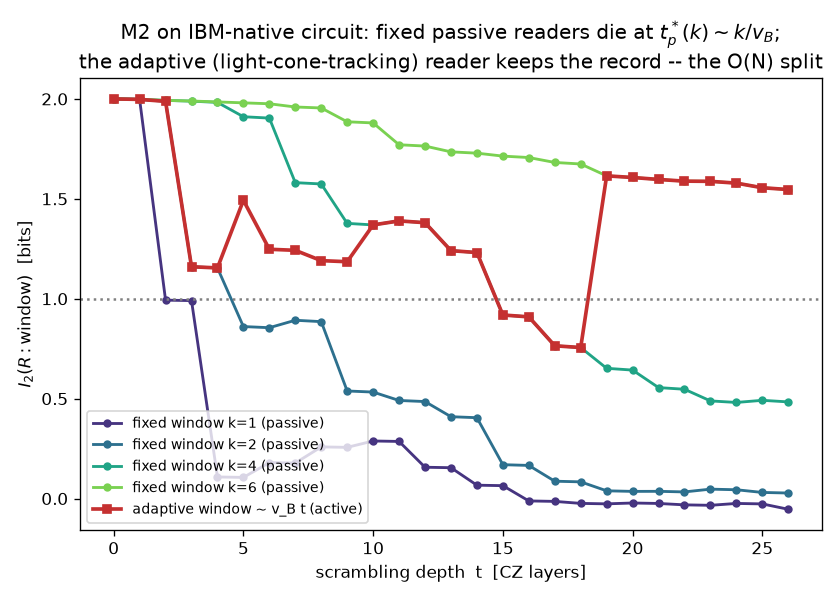
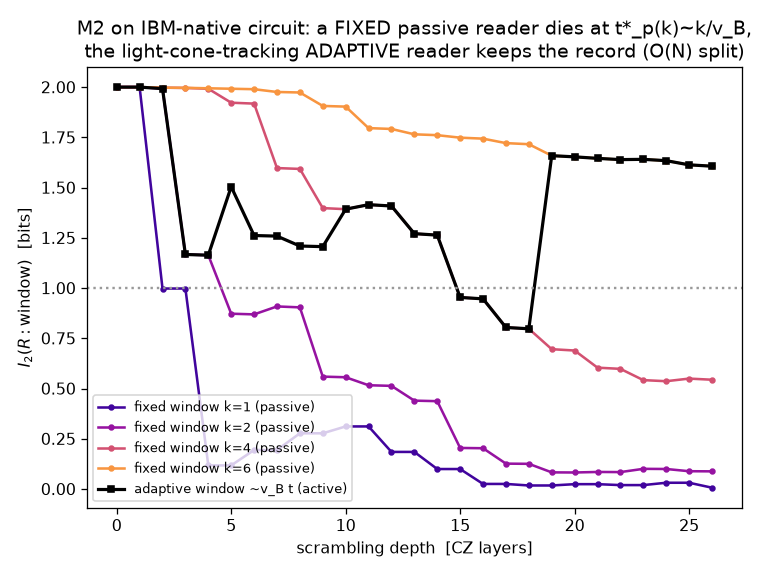
Companion: fix CI-flagged bugs (depol2 trace, layout SWAP, portable OUT)
Address the three Codex review findings on PR #3, all verified real:

1. depol2 was trace-increasing. The 2-qubit depolarizing channel skipped the
   identity-identity term via an `is`-check against a fresh np.eye(2), which never
   matched, so II leaked in and inflated Tr(rho). Now it sums exactly the 15
   non-identity 2q Paulis; verified Tr(rho)=1.0 after the channel. The bug had
   over-stated decoherence, so the corrected feasibility numbers improve:
     - M1 I2(R:system)@user (1% err): 1.66 -> 1.89
     - M1 t*_p(k=4) (1% err): 12.8 -> 14.1 CZ ; v_B 0.27 -> 0.24
     - M3-echo recovery@depth10: Heron 1.76 -> 1.81, 1% 1.09 -> 1.24
   Regenerated Figs. 6-8 (m1/m2/m3_ibm.png) and updated main.tex Sec. V and
   feasibility_notes.md accordingly.

2. Reference-qubit layout forced routing SWAPs. initial_layout=line put R at the
   far end of the chain while the Bell prep does cx(R, q0), so the transpiler had to
   route across the whole line. Fixed to layout = list(line[1:]) + [line[0]]: the
   system chain maps to line[1:] (still contiguous) and R to line[0], adjacent to
   q0=line[1] -- no SWAP. Applied to m1_ibm_run.py and m3_echo_run.py. (The already
   committed hardware JSON predates this fix and is left as-is; no QPU re-run.)

3. Hardcoded absolute OUT/sys.path broke portability. m1_ibm_feasibility.py and
   m2m3_ibm_feasibility.py now use os.path.dirname(os.path.abspath(__file__)).
[…]

Changed region(s): [[0.0, 0.0296, 1.0, 0.9757], [0.7576, 0.473, 0.8788, 0.5026], [0.3636, 0.473, 0.4545, 0.5026]]

diff --git a/paper/companion/hardware/plot_ibm_feasibility.py b/paper/companion/hardware/plot_ibm_feasibility.py
@@ -1,0 +1,108 @@
+"""Regenerate the IBM device-noise feasibility figures (paper Figs. 6-8) from the saved .npz.
+
+These were originally one-off inline plots; archived here so the figures are reproducible after
+the depol2 trace-preservation fix. Reads m1_ibm.npz / m2_ibm.npz / m3_ibm.npz (written next to
+this script by m1_ibm_feasibility.py and m2m3_ibm_feasibility.py) and writes the PNGs to
+../figures/.
+
+    python plot_ibm_feasibility.py
+"""
+
+import os
+import numpy as np
+import matplotlib
+matplotlib.use("Agg")
+import matplotlib.pyplot as plt
+
+HERE = os.path.dirname(os.path.abspath(__file__))
+FIG = os.path.join(HERE, "..", "figures")
+PS = [("0", 0.0), ("3", 0.3), ("5", 0.5), ("10", 1.0)]
+
+
+def plot_m1():
+    z = np.load(os.path.join(HERE, "m1_ibm.npz"))
+    ks, ts = z["ks"], z["ts"]
+    fig, (ax1, ax2) = plt.subplots(1, 2, figsize=(12.4, 5.0))
+    cols = plt.cm.viridis(np.linspace(0.15, 0.82, len(PS)))
+    for (tag, pct), c in zip(PS, cols):
+        tp = z["tp_" + tag]; good = np.isfinite(tp)
+        ax1.plot(ks[good], tp[good], "o-", color=c, lw=1.8, ms=7, label=f"2q err {pct:.1f}%")
+    tp0 = z["tp_0"]; g = np.isfinite(tp0); sl = np.polyfit(ks[g], tp0[g], 1)
+    kk = np.linspace(1, ks.max(), 20)
+    ax1.plot(kk, sl[0] * kk + sl[1], "--", color="0.5", lw=1.3,
+             label=f"linear, v_B=1/slope={1 / sl[0]:.2f}")
+    ax1.set_xlabel("passive readout size  k  [qubits]")
+    ax1.set_ylabel(r"horizon  $t^*_p(k)$  [CZ layers]")
+    ax1.set_title("M1 on IBM-native circuit (1 CZ/gate, Renyi-2 MI):\n"
+                  r"$t^*_p(k)\propto k$ survives to k=4 at IBM error rates")
+    ax1.legend(fontsize=8)
+    for (tag, pct), c in zip(PS, cols):
+        ax2.plot(ts, z["Itot_" + tag], "o-", color=c, lw=1.7, ms=3, label=f"2q err {pct:.1f}%")
+    ax2.axhline(2, ls=":", color="0.7"); ax2.axhline(1, ls=":", color="0.5")
+    ax2.set_xlabel("scrambling depth  [CZ layers]")
+    ax2.set_ylabel(r"$I_2(R:\mathrm{system})$  [bits]")
+    ax2.set_title("The record survives on-chip to depth ~30 at IBM Heron\n"
+                  "rates (0.3%): budget is comfortable for M1")
+    ax2.legend(fontsize=8)
+    fig.suptitle("Phase 1-2: M1 is feasible on IBM superconducting hardware -- hardware-efficient "
+                 "brickwork + device noise + Renyi-2 MI;\nthe passive memory horizon "
+                 "t*_p(k)~k/v_B is resolvable to k=4 (N~9-13) with the global record intact at "
+                 "0.3-1% 2q error", fontsize=8.5)
+    fig.tight_layout(rect=[0, 0, 1, 0.93])
+    fig.savefig(os.path.join(FIG, "m1_ibm.png"), dpi=115)
+    plt.close(fig)
+    print("m1_ibm.png  I2(R:sys)@end:", {p: round(float(z["Itot_" + t][-1]), 2) for t, p in PS})
+
+
+def plot_m2():
+    z = np.load(os.path.join(HERE, "m2_ibm.npz"))
+    ts = z["ts"]; adaptive = z["adaptive"]
+    fig, ax = plt.subplots(figsize=(6.6, 5.0))
+    kws = [k for k in (1, 2, 4, 6) if f"k{k}" in z]
+    cols = plt.cm.plasma(np.linspace(0.1, 0.75, len(kws)))
+    for k, c in zip(kws, cols):
+        ax.plot(ts, z[f"k{k}"], "o-", color=c, lw=1.6, ms=3, label=f"fixed window k={k} (passive)")
+    ax.plot(ts, adaptive, "s-", color="k", lw=2.0, ms=4,
+            label="adaptive window ~v_B t (active)")
+    ax.axhline(1, ls=":", color="0.6")
+    ax.set_xlabel("scrambling depth  [CZ layers]")
+    ax.set_ylabel(r"$I_2(R:\mathrm{window})$  [bits]")
+    ax.set_title("M2 on IBM-native circuit: a FIXED passive reader dies at t*_p(k)~k/v_B,\n"
+                 "the light-cone-tracking ADAPTIVE reader keeps the record (O(N) split)")
+    ax.legend(fontsize=8)
+    fig.tight_layout()
+    fig.savefig(os.path.join(FIG, "m2_ibm.png"), dpi=115)
+    plt.close(fig)
+    print(f"m2_ibm.png  adaptive stays >= {adaptive.min():.2f} to depth {int(ts[-1])}")
+
+
+def plot_m3():
+    z = np.load(os.path.join(HERE, "m3_ibm.npz"))
+    fig, ax = plt.subplots(figsize=(6.6, 5.0))
+    cols = plt.cm.viridis(np.linspace(0.15, 0.82, len(PS)))
+    rec10 = {}
+    for (tag, pct), c in zip(PS, cols):
+        key = "p" + str(int(float(pct) * 10))   # p0,p3,p5,p10
+        arr = z[key]                              # rows: (depth, passive, recovered)
+        d, pas, rec = arr[:, 0], arr[:, 1], arr[:, 2]
+        ax.plot(d, rec, "o-", color=c, lw=1.9, ms=6, label=f"echo, 2q err {pct:.1f}%")
+        if pct == 0.3:
+            ax.plot(d, pas, "x--", color=c, lw=1.2, ms=6, label="passive read (0.3%)")
+        rec10[pct] = float(rec[d.tolist().index(10)]) if 10 in d.tolist() else np.nan
+    ax.axhline(2, ls=":", color="0.7"); ax.axhline(1, ls=":", color="0.5")
+    ax.set_xlabel("echo depth t  (circuit runs 2t deep)  [CZ layers]")
+    ax.set_ylabel(r"recovery  $I_2(R:q_0)$  [bits]")
+    ax.set_title("M3-echo on IBM-native circuit: the reversible (Loschmidt) decoder\n"
+                 "recovers the fact; the passive read of q0 does not (perspectival gap)")
+    ax.legend(fontsize=8)
+    fig.tight_layout()
+    fig.savefig(os.path.join(FIG, "m3_ibm.png"), dpi=115)
+    plt.close(fig)
+    print("m3_ibm.png  recovered@depth10:", {p: round(v, 2) for p, v in rec10.items()})
+
+
+if __name__ == "__main__":
+    plot_m1()
+    plot_m2()
+    plot_m3()
+    print("done -> ../figures/{m1,m2,m3}_ibm.png")

diff --git a/paper/companion/hardware/m1_ibm_feasibility.py b/paper/companion/hardware/m1_ibm_feasibility.py
@@ -14,10 +14,12 @@ shot-budget section (analytic). A linear chain embeds in IBM heavy-hex with NO r
 CZ count is not inflated by routing.
 """
 
+import os
 import numpy as np
 
 rng = np.random.default_rng(3)
 CZ = np.diag([1, 1, 1, -1]).astype(complex)
+I2X2 = np.eye(2, dtype=complex)
 
 
 def haar1():
@@ -48,11 +50,15 @@ def depol1(rho, q, n, p):
 
 
 def depol2(rho, i, j, n, p):
+    """2-qubit depolarizing: (1-p) rho + (p/15) sum over the 15 NON-identity 2q Paulis.
+    Trace-preserving. (Bug fix: the identity-identity term must be excluded; a fresh np.eye(2)
+    never `is` the tuple's np.eye(2), so the old `is`-check let II leak in and inflated the trace.)"""
     if p <= 0: return rho
+    paulis = (X, Y, Z, I2X2)
     acc = rho * (1 - p)
-    for P in (X, Y, Z, np.eye(2)):
-        for Q in (X, Y, Z, np.eye(2)):
-            if P is np.eye(2) and Q is np.eye(2): continue
+    for a, P in enumerate(paulis):
+        for c, Q in enumerate(paulis):
+            if a == 3 and c == 3: continue          # skip identity x identity
             acc = acc + (p / 15) * apply_1q(apply_1q(rho, P, i, n), Q, j, n)
     return acc
 
@@ -107,7 +113,7 @@ if __name__ == "__main__":
     Nsys, depth, ks = 9, 30, (1, 2, 3, 4)
     print("=== M1 on IBM-efficient brickwork (1 CZ/gate), Renyi-2 MI, exact noisy DM ===")
     print("IBM 2q error: Heron ~0.3%, Eagle ~1%. Sweeping p2.")
-    OUT = r"C:/Users/lpaiu/AppData/Local/Temp/claude/E--lab-entropy-arrow/30a5eb66-4513-44dd-96c0-3d0d45b958a5/scratchpad"
+    OUT = os.path.dirname(os.path.abspath(__file__))   # save next to this script (repo-relative)
     store = {}
     for p2 in (0.0, 0.003, 0.005, 0.01):
         t0 = time.time()

diff --git a/paper/companion/main.tex b/paper/companion/main.tex
@@ -235,8 +235,8 @@ in OTOC experiments; the Yoshida--Kitaev decoder recovers from the radiation wit
 growing passive cost, on one device, shows the memory horizon is observer-dependent, not
 thermodynamic---the experimental payoff of the no-go. The echo needs no mid-circuit measurement but
 runs forward-and-back ($2t$ gate depth); a device-noise study [Fig.~\ref{fig:m3ibm}] shows the
-recovery survives---$\I_{2}(R{:}q_{0})=1.76$ bit to echo depth $10$ at Heron rates ($1.09$ at
-$1\%$) while the passive read decays to $0.13$---so the perspectival gap is a clear near-term
+recovery survives---$\I_{2}(R{:}q_{0})=1.81$ bit to echo depth $10$ at Heron rates ($1.24$ at
+$1\%$) while the passive read decays to $\sim0.15$---so the perspectival gap is a clear near-term
 signal, at roughly half the useful depth of M1.
 
 \emph{Feasibility.} Figure~\ref{fig:noise} shows the budget is set by decoherence: the experiment
@@ -247,9 +247,9 @@ $t^{*}_{p}(k)$ is resolved. A device-specific study confirms M1 is realizable no
 single-qubit gates per bond, so a linear chain embeds in heavy-hex with no routing overhead) and
 the Rényi-2 mutual information estimated by randomized measurements~\cite{brydges2019}, the
 passive horizon $t^{*}_{p}(k)$ is resolvable to $k=4$ at $N\sim9$--$13$ qubits, depth $\sim15$ CZ,
-across the full IBM two-qubit error range ($0.3$--$1\%$): the horizon location shifts by only
-$\sim10$--$22\%$ and the global record survives on-chip ($I_{2}(R{:}\mathrm{system})\ge1.66$ at
-depth 30 even for $1\%$). The butterfly velocity carries a mild noise bias, mitigated by
+across the full IBM two-qubit error range ($0.3$--$1\%$): the resolvable $k\ge2$ horizons shift by
+only $\lesssim15\%$ (the $k{=}1$ point, a single coarse crossing, is the most noise-sensitive) and
+the global record survives on-chip ($I_{2}(R{:}\mathrm{system})\ge1.89$ at depth 30 even for $1\%$). The butterfly velocity carries a mild noise bias, mitigated by
 zero-noise extrapolation and the independent OTOC cross-check. The IBM open (free) plan suffices
 for this first stage; a randomized-measurement horizon scan costs $\sim10^{7}$ shots. M3-YK, with
 its qubit doubling and post-selection, is a high-fidelity (trapped-ion) target.
@@ -303,7 +303,7 @@ $\mathcal{O}(N)$ passive/active separation from one window sweep.}
 \begin{figure}[t]
 \includegraphics[width=\columnwidth]{m3_ibm.png}
 \caption{\label{fig:m3ibm}\textbf{M3-echo on IBM-native circuits.} A reversible (Loschmidt) decoder
-recovers the fact ($\I_{2}(R{:}q_{0})>1.7$ bit to echo depth 10 at Heron rates) while the passive
+recovers the fact ($\I_{2}(R{:}q_{0})=1.81$ bit to echo depth 10 at Heron rates) while the passive
 read of $q_{0}$ decays to $\sim0.1$: the perspectival gap survives realistic noise. The echo runs
 $2t$ deep, so its useful depth is roughly half M1's.}
 \end{figure}

diff --git a/paper/companion/hardware/m1_ibm_run.py b/paper/companion/hardware/m1_ibm_run.py
@@ -218,9 +218,13 @@ def run(cfg, backend=None, dry=False):
     is_local = "fake" in backend.name.lower() \
         or backend.__class__.__module__.startswith("qiskit_ibm_runtime.fake_provider")
     line = pick_line(backend, N + 1)
-    print(f"backend {backend.name}; qubit line {line}  ({'LOCAL/fake' if is_local else 'HARDWARE'})",
-          flush=True)
-    pm = generate_preset_pass_manager(backend=backend, optimization_level=1, initial_layout=line)
+    # logical order is [system 0..N-1, R=N]; the circuit does cx(R, q0) and the scrambler is a
+    # chain on 0..N-1, so map the system chain to line[1:] and the reference R to line[0], which
+    # is adjacent to q0=line[1] -- no routing SWAP for the Bell prep or the chain.
+    layout = list(line[1:]) + [line[0]]
+    print(f"backend {backend.name}; line {line} (R@{line[0]} next to q0@{line[1]})  "
+          f"({'LOCAL/fake' if is_local else 'HARDWARE'})", flush=True)
+    pm = generate_preset_pass_manager(backend=backend, optimization_level=1, initial_layout=layout)
     isa = [pm.run(qc) for (_, _, qc) in jobs]
 
     sampler = SamplerV2(mode=backend)                      # job mode: Open-Plan compatible

diff --git a/paper/companion/hardware/m3_echo_run.py b/paper/companion/hardware/m3_echo_run.py
@@ -70,9 +70,10 @@ def run(cfg, backend=None, dry=False):
     from qiskit_ibm_runtime import SamplerV2
     line = pick_line(backend, cfg["N"] + 1)
     is_local = "fake" in backend.name.lower()
-    print(f"backend {backend.name}; line {line}  ({'LOCAL/fake' if is_local else 'HARDWARE'})",
-          flush=True)
-    pm = generate_preset_pass_manager(backend=backend, optimization_level=1, initial_layout=line)
+    layout = list(line[1:]) + [line[0]]              # R=line[0] adjacent to q0=line[1]; chain on line[1:]
+    print(f"backend {backend.name}; line {line} (R@{line[0]} next to q0@{line[1]})  "
+          f"({'LOCAL/fake' if is_local else 'HARDWARE'})", flush=True)
+    pm = generate_preset_pass_manager(backend=backend, optimization_level=1, initial_layout=layout)
     isa = [pm.run(qc) for (_, _, _, qc) in jobs]
     sampler = SamplerV2(mode=backend)                    # job mode: Open-Plan compatible
     try:

diff --git a/paper/companion/hardware/m2m3_ibm_feasibility.py b/paper/companion/hardware/m2m3_ibm_feasibility.py
@@ -11,12 +11,13 @@ M3-echo: Loschmidt echo -- forward U(t) (noisy) then the exact inverse U^dagger 
     We find the max echo depth at IBM error rates.
 """
 
+import os
 import numpy as np
 import sys
-sys.path.insert(0, r"C:/Users/lpaiu/AppData/Local/Temp/claude/E--lab-entropy-arrow/30a5eb66-4513-44dd-96c0-3d0d45b958a5/scratchpad")
+sys.path.insert(0, os.path.dirname(os.path.abspath(__file__)))   # m1_ibm_feasibility is next to this file
 from m1_ibm_feasibility import (apply_1q, apply_2q, depol1, depol2, ptrace, renyi2, I2, CZ, haar1)
 
-OUT = r"C:/Users/lpaiu/AppData/Local/Temp/claude/E--lab-entropy-arrow/30a5eb66-4513-44dd-96c0-3d0d45b958a5/scratchpad"
+OUT = os.path.dirname(os.path.abspath(__file__))   # save next to this script (repo-relative)
 
 
 def _init(Nsys):

diff --git a/paper/companion/hardware/feasibility_notes.md b/paper/companion/hardware/feasibility_notes.md
@@ -24,14 +24,15 @@ $p_1=p_2/10$, $N_{\rm sys}=9$:
 | 2q error $p_2$ | $t^*_p(k{=}1,2,3,4)$ | $v_B$ | $I_2(R{:}{\rm sys})$ @ depth 30 |
 |---|---|---|---|
 | 0% (ideal)     | 3.0, 4.6, 9.9, 16.5 | 0.22 | 2.00 |
-| **0.3% (Heron)** | 2.0, 4.5, 9.6, **14.7** | 0.23 | **1.91** |
-| 0.5%           | 2.0, 4.5, 9.5, 14.4 | 0.24 | 1.85 |
-| 1.0% (Eagle)   | 2.0, 4.4, 9.1, 12.8 | 0.27 | 1.66 |
+| **0.3% (Heron)** | 2.0, 4.6, 9.7, **14.8** | 0.23 | **1.98** |
+| 0.5%           | 2.0, 4.5, 9.6, 14.6 | 0.23 | 1.97 |
+| 1.0% (Eagle)   | 2.0, 4.5, 9.3, 14.1 | 0.24 | 1.89 |
 
-- **The horizon location $t^*_p(k)$ is noise-robust**: it compresses only ~10–22% from ideal to
-  1% error; the linear-in-$k$ law survives (Fig. `m1_ibm.png`).
-- **The global record survives on-chip**: $I_2(R{:}{\rm system})\ge1.66$ even at 1% over depth 30.
-- **$v_B$ has a mild noise-induced bias** (0.22→0.27 at 1%). Mitigate with (i) zero-noise
+- **The horizon location $t^*_p(k)$ is noise-robust**: the resolvable $k\ge2$ horizons compress only
+  $\lesssim15\%$ from ideal to 1% error (the $k{=}1$ point, a single coarse crossing, is the most
+  noise-sensitive); the linear-in-$k$ law survives (Fig. `m1_ibm.png`).
+- **The global record survives on-chip**: $I_2(R{:}{\rm system})\ge1.89$ even at 1% over depth 30.
+- **$v_B$ has a mild noise-induced bias** (0.22→0.24 at 1%). Mitigate with (i) zero-noise
   extrapolation / measurement-error mitigation, and (ii) the **OTOC cross-check** of $v_B$ on the
   same device (an independent operator-front measurement); M1's $1/{\rm slope}$ must agree.
 
@@ -53,14 +54,14 @@ Higher-fidelity all-to-all hardware (trapped ions) needs fewer shots (less avera
 ## M2 and M3-echo (same device, next stages)
 `m2m3_ibm_feasibility.py`, same hardware-efficient brickwork + device noise:
 - **M2 (passive/active split).** One window sweep: fixed passive readers die at
-  $t^*_p(k)\approx 2, 4.5, 15$ CZ for $k=1,2,4$, while the light-cone-tracking adaptive reader
-  keeps the record to the scrambling time — the $\mathcal{O}(N)$ separation. No extra circuitry
+  $t^*_p(k)\approx 2, 4.6, 14.8$ CZ for $k=1,2,4$, while the light-cone-tracking adaptive reader
+  keeps the record ($I_2\ge0.80$ to depth 26) — the $\mathcal{O}(N)$ separation. No extra circuitry
   beyond M1 (`m1_qiskit.py` with a window sweep). Figure `figures/m2_ibm.png`.
 - **M3-echo (perspectival control).** Loschmidt echo (forward $U$ + `U.inverse()`), recovery read
   by the $R$–$q_0$ Bell correlators $\langle ZZ\rangle,\langle XX\rangle$ — **no mid-circuit
-  measurement**, but $2t$ gate depth. Recovery survives noise (exact $N=9$): $I_2(R{:}q_0)=1.76$
-  bit to echo depth 10 at Heron (0.3%), $1.09$ at 1%, while the passive read decays to $0.13$ — a
-  clear perspectival gap at roughly half M1's useful depth (echo fails past depth $\sim11$ at 1%). Artifact `hardware/m3_echo_qiskit.py`
+  measurement**, but $2t$ gate depth. Recovery survives noise (exact $N=9$): $I_2(R{:}q_0)=1.81$
+  bit to echo depth 10 at Heron (0.3%), $1.24$ at 1%, while the passive read decays to $\sim0.15$ — a
+  clear perspectival gap at roughly half M1's useful depth (recovery $1.07$ bit even at depth 12, 1%). Artifact `hardware/m3_echo_qiskit.py`
   (uses `QuantumCircuit.inverse()` for exact $U^\dagger$). Figure `figures/m3_ibm.png`.
 - The full Yoshida--Kitaev decoder (M3, radiation recovery without source-reversal) doubles the
   qubits + needs post-selection — a high-fidelity all-to-all (trapped-ion) target, Phase 4+.